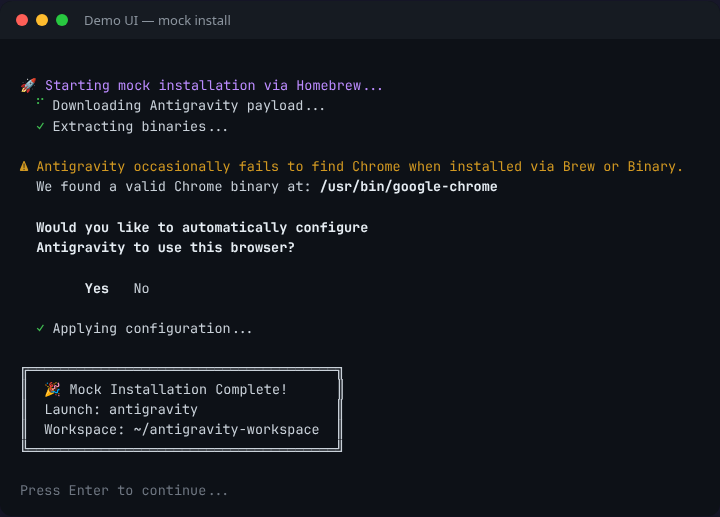
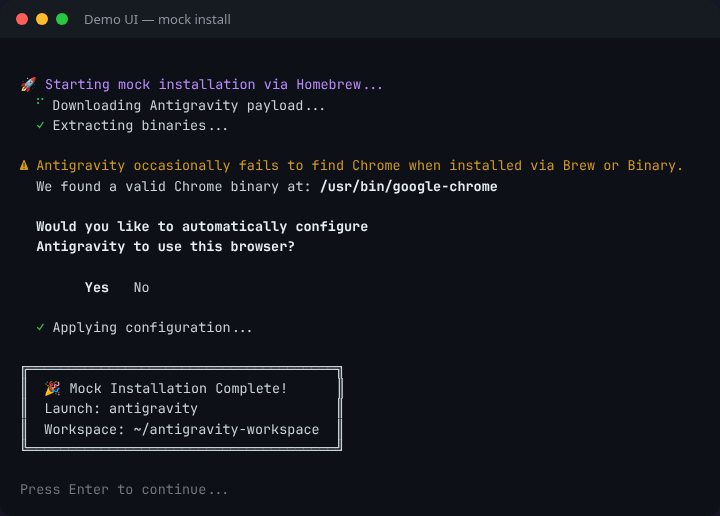
feat: add Antigravity CLI installation support, update release URLs to GCS, and improve health check integration

diff --git a/docs/index.html b/docs/index.html
@@ -221,6 +221,13 @@
                                             <p class="text-slate-400 text-xs mt-0.5">Downloads the official standalone package. No sudo required.</p>
                                         </div>
                                     </li>
+                                    <li class="flex items-start gap-3">
+                                        <span class="flex-shrink-0 flex items-center justify-center w-6 h-6 bg-violet-500/20 text-violet-400 font-mono rounded text-xs border border-violet-500/30">4</span>
+                                        <div>
+                                            <strong class="text-slate-200">Antigravity CLI</strong>
+                                            <p class="text-slate-400 text-xs mt-0.5">Installs the <code class="text-slate-300 bg-slate-900 px-1 rounded font-mono text-xs">agy</code> command-line helper tool (standalone, no IDE required).</p>
+                                        </div>
+                                    </li>
                                 </ul>
                             </div>
 
@@ -265,6 +272,20 @@
                             &bull; <strong>Official Binary:</strong> Installed to <code class="text-slate-300 bg-slate-900 px-1 py-0.5 rounded font-mono">~/.local/lib/antigravity</code> or <code class="text-slate-300 bg-slate-900 px-1 py-0.5 rounded font-mono">/Applications</code>.
                         </p>
                     </div>
+
+                    <div class="mt-4 p-4 bg-indigo-950/30 rounded-xl border border-indigo-500/30 text-sm">
+                        <h3 class="font-semibold text-indigo-300 mb-2 flex items-center gap-2">
+                            <i data-lucide="terminal" class="w-4 h-4 text-indigo-400"></i>
+                            Need the Antigravity CLI? (New)
+                        </h3>
+                        <p class="text-slate-400 mb-2">Install the command-line helper tool <code class="text-slate-300 bg-slate-900 px-1 py-0.5 rounded font-mono">agy</code> directly using the command:</p>
+                        <div class="relative bg-slate-950 rounded-lg border border-slate-800 p-3 shadow-inner mb-2">
+                            <code class="block font-mono text-emerald-400 text-xs sm:text-sm break-all">
+                                curl -fSsL "https://antigravity.google/cli/install.sh" | bash
+                            </code>
+                        </div>
+                        <p class="text-slate-400 text-xs">Or select <strong class="text-indigo-300">Antigravity CLI</strong> from the interactive installation menu.</p>
+                    </div>
                 </div>
             </div>
 
@@ -278,22 +299,22 @@
                     </p>
                     <div class="grid grid-cols-1 sm:grid-cols-2 gap-3 mt-4 mb-2">
                         <!-- TARBALL_LINK_LINUX -->
-                        <a href="https://edgedl.me.gvt1.com/edgedl/release2/j0qc3/antigravity/stable/2.0.1-4861014005645312/linux-x64/Antigravity%20IDE.tar.gz" target="_blank" class="inline-flex items-center justify-between px-4 py-2.5 bg-slate-800 hover:bg-slate-700 border border-slate-600 hover:border-indigo-500 text-slate-300 hover:text-white text-sm font-medium rounded-lg transition-colors group">
+                        <a href="https://storage.googleapis.com/antigravity-public/antigravity-hub/2.0.0-6324554176528384/linux-x64/Antigravity.tar.gz" target="_blank" class="inline-flex items-center justify-between px-4 py-2.5 bg-slate-800 hover:bg-slate-700 border border-slate-600 hover:border-indigo-500 text-slate-300 hover:text-white text-sm font-medium rounded-lg transition-colors group">
                             <span>Linux (x64)</span>
                             <i data-lucide="download" class="w-4 h-4 text-slate-500 group-hover:text-indigo-400 transition-colors"></i>
                         </a>
                         <!-- TARBALL_LINK_MAC_ARM -->
-                        <a href="https://edgedl.me.gvt1.com/edgedl/release2/j0qc3/antigravity/stable/2.0.1-4861014005645312/darwin-arm/Antigravity%20IDE.dmg" target="_blank" class="inline-flex items-center justify-between px-4 py-2.5 bg-slate-800 hover:bg-slate-700 border border-slate-600 hover:border-indigo-500 text-slate-300 hover:text-white text-sm font-medium rounded-lg transition-colors group">
+                        <a href="https://storage.googleapis.com/antigravity-public/antigravity-hub/2.0.0-6324554176528384/darwin-arm/Antigravity.dmg" target="_blank" class="inline-flex items-center justify-between px-4 py-2.5 bg-slate-800 hover:bg-slate-700 border border-slate-600 hover:border-indigo-500 text-slate-300 hover:text-white text-sm font-medium rounded-lg transition-colors group">
                             <span>macOS (Apple Silicon)</span>
                             <i data-lucide="download" class="w-4 h-4 text-slate-500 group-hover:text-indigo-400 transition-colors"></i>
                         </a>
                         <!-- TARBALL_LINK_MAC_X64 -->
-                        <a href="https://edgedl.me.gvt1.com/edgedl/release2/j0qc3/antigravity/stable/2.0.1-4861014005645312/darwin-x64/Antigravity%20IDE.dmg" target="_blank" class="inline-flex items-center justify-between px-4 py-2.5 bg-slate-800 hover:bg-slate-700 border border-slate-600 hover:border-indigo-500 text-slate-300 hover:text-white text-sm font-medium rounded-lg transition-colors group">
+                        <a href="https://storage.googleapis.com/antigravity-public/antigravity-hub/2.0.0-6324554176528384/darwin-x64/Antigravity.dmg" target="_blank" class="inline-flex items-center justify-between px-4 py-2.5 bg-slate-800 hover:bg-slate-700 border border-slate-600 hover:border-indigo-500 text-slate-300 hover:text-white text-sm font-medium rounded-lg transition-colors group">
                             <span>macOS (Intel)</span>
                             <i data-lucide="download" class="w-4 h-4 text-slate-500 group-hover:text-indigo-400 transition-colors"></i>
                         </a>
                         <!-- TARBALL_LINK_WIN -->
-                        <a href="https://edgedl.me.gvt1.com/edgedl/release2/j0qc3/antigravity/stable/2.0.1-4861014005645312/windows-x64/Antigravity%20IDE.exe" target="_blank" class="inline-flex items-center justify-between px-4 py-2.5 bg-slate-800 hover:bg-slate-700 border border-slate-600 hover:border-indigo-500 text-slate-300 hover:text-white text-sm font-medium rounded-lg transition-colors group">
+                        <a href="https://storage.googleapis.com/antigravity-public/antigravity-hub/2.0.0-6324554176528384/windows-x64/Antigravity.exe" target="_blank" class="inline-flex items-center justify-between px-4 py-2.5 bg-slate-800 hover:bg-slate-700 border border-slate-600 hover:border-indigo-500 text-slate-300 hover:text-white text-sm font-medium rounded-lg transition-colors group">
                             <span>Windows (x64)</span>
                             <i data-lucide="download" class="w-4 h-4 text-slate-500 group-hover:text-indigo-400 transition-colors"></i>
                         </a>

diff --git a/docs/images/render.html b/docs/images/render.html
@@ -85,6 +85,7 @@ body { background: #1a1a2e; display: flex; flex-direction: column; align-items: 
   <span class="green">★</span> Homebrew (cross-platform, no sudo)
   System Repo (APT/DNF, needs sudo)
   Official Binary (manual, standalone app)
+  Antigravity CLI (command-line helper tool)
 
 <span class="dim">←↓↑→ navigate • enter submit</span>
 </div>

diff --git a/scrape_latest.py b/scrape_latest.py
@@ -21,7 +21,7 @@ DOWNLOAD_PAGE = "https://antigravity.google/download/linux"
 SITE_ROOT = "https://antigravity.google"
 
 MAIN_JS_PATTERN = re.compile(r'src="(main-[^"]+\.js)"')
-EDGEDL_URL_PATTERN = re.compile(r'https://edgedl\.me\.gvt1\.com/[^"\'\\`\s]+')
+URL_PATTERN = re.compile(r'https://(?:edgedl\.me\.gvt1\.com|storage\.googleapis\.com)/[^"\'\\`\s]+')
 
 HEADERS = {
     "User-Agent": "Mozilla/5.0 (X11; Linux x86_64) AppleWebKit/537.36",
@@ -37,11 +37,11 @@ TARGETS = {
 }
 
 TARGET_PATTERNS = {
-    "LINUX_X64": re.compile(r'/linux-x64/Antigravity.*\.tar\.gz$'),
-    "MAC_X64": re.compile(r'/darwin-x64/Antigravity.*\.dmg$'),
-    "MAC_ARM64": re.compile(r'/darwin-arm/Antigravity.*\.dmg$'),
-    "WIN_X64": re.compile(r'/windows-x64/Antigravity.*\.exe$'),
-    "WIN_ARM64": re.compile(r'/windows-arm64/Antigravity.*\.exe$'),
+    "LINUX_X64": re.compile(r'/linux-x64/Antigravity(?:%20IDE)?\.tar\.gz$'),
+    "MAC_X64": re.compile(r'/darwin-x64/Antigravity(?:%20IDE)?\.dmg$'),
+    "MAC_ARM64": re.compile(r'/darwin-arm/Antigravity(?:%20IDE)?\.dmg$'),
+    "WIN_X64": re.compile(r'/windows-x64/Antigravity(?:%20IDE)?\.exe$'),
+    "WIN_ARM64": re.compile(r'/windows-arm(?:64)?/Antigravity(?:%20IDE)?\.exe$'),
 }
 
 def compute_sha256(url: str) -> str:
@@ -55,6 +55,17 @@ def compute_sha256(url: str) -> str:
 
 def scrape_urls() -> Optional[Dict[str, Dict[str, str]]]:
     try:
+        # Step 0: Fetch active releases list from API
+        active_versions = []
+        try:
+            api_resp = requests.get("https://antigravity-auto-updater-974169037036.us-central1.run.app/releases", headers=HEADERS, timeout=15)
+            api_resp.raise_for_status()
+            for item in api_resp.json():
+                active_versions.append(item["version"])
+        except Exception as e:
+            print(f"WARNING: Failed to fetch active releases from API: {e}", file=sys.stderr)
+            active_versions = None
+
         # Step 1: Find the main JS bundle
         page_resp = requests.get(DOWNLOAD_PAGE, headers=HEADERS, timeout=15)
         page_resp.raise_for_status()
@@ -70,18 +81,19 @@ def scrape_urls() -> Optional[Dict[str, Dict[str, str]]]:
         js_resp = requests.get(js_url, headers=HEADERS, timeout=30)
         js_resp.raise_for_status()
 
-        all_urls = set(EDGEDL_URL_PATTERN.findall(js_resp.text))
+        all_urls = set(URL_PATTERN.findall(js_resp.text))
         
         # Step 3: Map platforms to URLs by sorting semantic versions
-        VERSION_PATTERN = re.compile(r'/stable/([0-9.]+)-[0-9]+/')
+        VERSION_PATTERN = re.compile(r'/(?:stable|antigravity-hub)/([0-9.]+)-[0-9]+/')
         versions_map = {}
         for url in all_urls:
-            if "/stable/" not in url:
-                continue
             match = VERSION_PATTERN.search(url)
             if not match:
                 continue
             version_str = match.group(1)
+            # Filter by active versions if API request succeeded
+            if active_versions is not None and version_str not in active_versions:
+                continue
             try:
                 version_tuple = tuple(int(x) for x in version_str.split('.'))
             except ValueError:

diff --git a/README.md b/README.md
@@ -38,6 +38,7 @@ curl -fSsL "https://raw.githubusercontent.com/wtg-codes/agv-easy-install/main/an
 bash antigravity-manager.sh --install-brew
 bash antigravity-manager.sh --install-repo
 bash antigravity-manager.sh --install-binary
+bash antigravity-manager.sh --install-cli    # Headless Antigravity CLI install
 
 # Additional options
 bash antigravity-manager.sh --verbose  # Print detailed logs
@@ -105,11 +106,11 @@ For detailed platform-specific architecture, see our documentation:
 
 These links are updated nightly by our CI pipeline. If they fail, run the installer script instead—it always scrapes the latest URL.
 
-- **Linux (x64)**: [Antigravity.tar.gz](https://edgedl.me.gvt1.com/edgedl/release2/j0qc3/antigravity/stable/2.0.1-4861014005645312/linux-x64/Antigravity%20IDE.tar.gz)
-- **macOS (Apple Silicon)**: [Antigravity.dmg (arm64)](https://edgedl.me.gvt1.com/edgedl/release2/j0qc3/antigravity/stable/2.0.1-4861014005645312/darwin-arm/Antigravity%20IDE.dmg)
-- **macOS (Intel)**: [Antigravity.dmg (x64)](https://edgedl.me.gvt1.com/edgedl/release2/j0qc3/antigravity/stable/2.0.1-4861014005645312/darwin-x64/Antigravity%20IDE.dmg)
-- **Windows (x64)**: [Antigravity.exe](https://edgedl.me.gvt1.com/edgedl/release2/j0qc3/antigravity/stable/2.0.1-4861014005645312/windows-x64/Antigravity%20IDE.exe)
-- **Windows (ARM64)**: [Antigravity.exe](https://edgedl.me.gvt1.com/edgedl/release2/j0qc3/antigravity/stable/2.0.1-4861014005645312/windows-arm64/Antigravity%20IDE.exe)
+- **Linux (x64)**: [Antigravity.tar.gz](https://storage.googleapis.com/antigravity-public/antigravity-hub/2.0.0-6324554176528384/linux-x64/Antigravity.tar.gz)
+- **macOS (Apple Silicon)**: [Antigravity.dmg (arm64)](https://storage.googleapis.com/antigravity-public/antigravity-hub/2.0.0-6324554176528384/darwin-arm/Antigravity.dmg)
+- **macOS (Intel)**: [Antigravity.dmg (x64)](https://storage.googleapis.com/antigravity-public/antigravity-hub/2.0.0-6324554176528384/darwin-x64/Antigravity.dmg)
+- **Windows (x64)**: [Antigravity.exe](https://storage.googleapis.com/antigravity-public/antigravity-hub/2.0.0-6324554176528384/windows-x64/Antigravity.exe)
+- **Windows (ARM64)**: [Antigravity.exe](https://storage.googleapis.com/antigravity-public/antigravity-hub/2.0.0-6324554176528384/windows-arm/Antigravity.exe)
 
 </details>
 

diff --git a/CHANGELOG.md b/CHANGELOG.md
@@ -5,6 +5,16 @@ Format follows [Keep a Changelog](https://keepachangelog.com/).
 
 ---
 
+## [0.2.9] — 2026-05-19
+
+### Added
+- **Antigravity CLI Support:** Added the command-line helper tool (`agy`) installer support, including the interactive UI option, `--install-cli` headless argument, and automatic removal of `$BIN_DIR/agy` on uninstall.
+- **Health Check Integration:** Added optional CLI binary presence and PATH verification to the `--check` health check command.
+
+### Changed
+- **Official Release Alignment:** Targeted stable release version `2.0.0` from GCS URLs. Expanded the python scraper regex pattern to support both `/stable/` (edgedl) and `/antigravity-hub/` (GCS) path structures.
+- **Documentation and Mock Screenshots:** Added CLI setup card to the landing page and README, updated manual download links, updated `docs/images/render.html` mock menu, and regenerated terminal mock screenshots.
+
 ## [0.2.8] — 2026-05-19
 
 ### Fixed

diff --git a/TODO.md b/TODO.md
@@ -14,7 +14,8 @@
 - [x] `install_brew()` — Homebrew install path (Linux + macOS code)
 - [x] `install_repo()` — APT/DNF system repo install
 - [x] `do_install_tarball()` — standalone tarball with SHA-256 verification
-- [x] `do_remove()` — uninstall Antigravity (all methods)
+- [x] `do_remove()` — uninstall Antigravity and CLI binary
+- [x] `install_cli()` — install and configure the new Antigravity CLI
 - [x] `save_manager_locally()` — persist the manager script
 - [x] AGV detection at startup — check if Antigravity is already installed
 - [x] Chrome browser detection + auto-configuration prompt
@@ -30,7 +31,7 @@
 ### CLI Interface
 - [x] `--version`, `--help`, `--remove`, `--verbose`, `--quiet`, `--json`
 - [x] `--auto` headless auto-install (CI/provisioning)
-- [x] `--install-brew`, `--install-repo`, `--install-tarball` direct flags
+- [x] `--install-brew`, `--install-repo`, `--install-tarball`, `--install-cli` direct flags
 - [x] `--demo-ui` sandbox mode
 
 ### Security & Integrity
@@ -157,6 +158,9 @@
 - [x] Automated CI testing on macOS (GitHub Actions macOS runner)
 - [x] Auto-update mechanism for the manager script itself
 - [x] `--check` flag to verify existing installation health
+- [x] **Antigravity CLI Support (`agy`)**: Add helper functions and UI/headless flags to install/uninstall the new command-line helper tool.
+- [ ] **Gemini CLI Support**: Integrate installation of the Gemini CLI helper (see [installation docs](https://geminicli.com/docs/get-started/installation/)).
+- [ ] **Jules-cli Support**: Add installer support for the Jules-cli developer tool.
 - [ ] Localization / i18n (stretch goal)
 
 ---